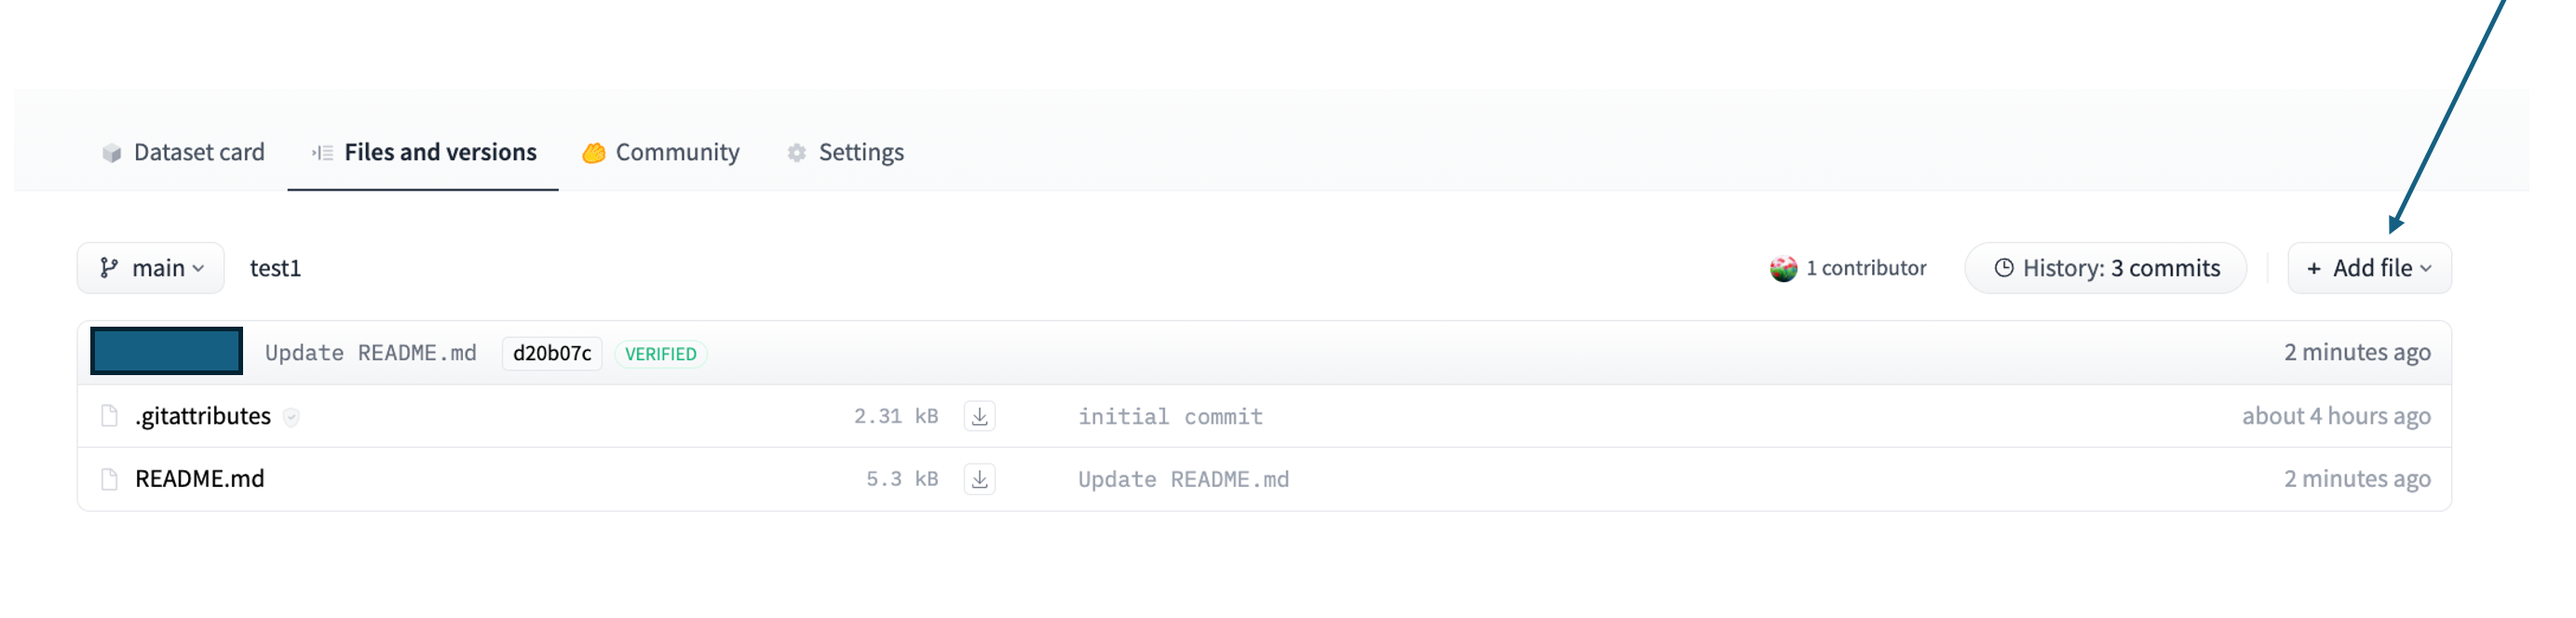
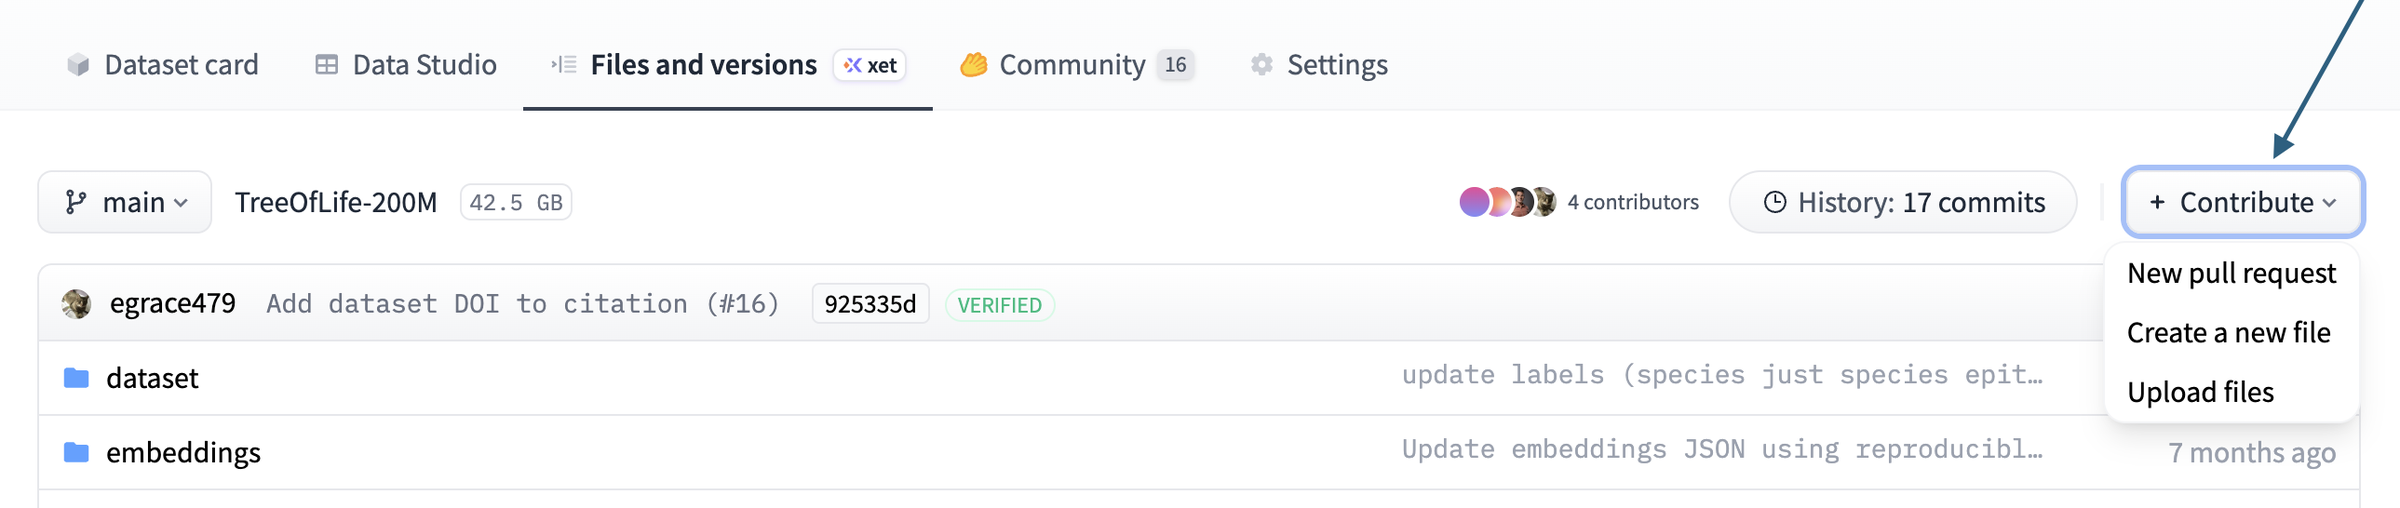
HF upload guide update
Pull from Collab Guide [PR 65](https://github.com/Imageomics/Collaborative-distributed-science-guide/pull/65)

* Initial re-organization of page, includes integrity checks and more links to docs
WIP refining

* Add in links, fix typos

* Additional notes in sections, refs out

* Add updated screenshot with arrow
match UI change to 'contribute'

* Remove extra outdated content, update URLs for new versions, run linting

* Clarify UI upload cases

* Clarify CLI upload use case

* Add pointer for considerations with large folder uploads

---------

diff --git a/docs/wiki-guide/The-Hugging-Face-Dataset-Upload-Guide.md b/docs/wiki-guide/The-Hugging-Face-Dataset-Upload-Guide.md
@@ -1,20 +1,49 @@
 # Hugging Face Dataset Guide
 
-## Create a New Dataset Repository
+[Hugging Face](https://hf.co/) offers numerous methods for interacting with and creating datasets. This page provides a basic overview with some recommendations specifically targeting image dataset uploads, though the principles are transferrable to other data types. We list these options&mdash;in order of increasing complexity&mdash;with some guidance, recommendations, and links out to the appropriate parts of the Hugging Face docs for the most up-to-date information available.
 
-When creating a new dataset repository, you can make the dataset **Public** (accessible to anyone on the internet) or **Private** (accessible only to members of the organization).
+1. [Web interface (UI)](#upload-a-dataset-with-the-web-interface): For smaller, simpler uploads.
+2. [Hugging Face Command Line Interface (CLI)](#upload-a-dataset-with-the-hugging-face-cli): For most use-cases, easy access from cluster.
+3. [Hugging Face API (python package)](#upload-a-dataset-with-hfapi): For when more fine-grained control than is achievable with the CLI is needed.
+4. [Git/Git LFS](#upload-a-dataset-with-git): Main use-case is when multiple PRs lead to merge conflicts&mdash;Hugging Face provides no other means for resolution.
 
-![New dataset repository interface](images/HF-dataset-upload/346972860-ed0feb0e-529b-4021-b44f-41ac96680bc3.png){ loading=lazy, width=800 }
-/// caption
-///
+!!! info
+    Some sections of the Hugging Face docs, such as for the `huggingface_hub`, have only version specific links for stable versions. In this case, if the link directs to an older version, there will be a banner to alert you to a newer version available, so keep an eye out for that updated version banner.
+
+Most of the content below is covered in various parts of [Hugging Face's Upload Guide](https://huggingface.co/docs/huggingface_hub/en/guides/upload); this page is provided as a summary reference mainly to determine which method might be best and link to the appropriate docs. Additionally, we include an [integrity check](#integrity-check) to help you ensure that your repo contains all the desired files after uploading through any of these methods.
+
+[HF tips and tricks for large uploads](https://huggingface.co/docs/huggingface_hub/en/guides/upload#tips-and-tricks-for-large-uploads).
+
+## Note on Authentication
+
+All of these methods require authentication to edit datasets, ranging from passwords, to tokens, to SSH authentication, and all support editing **Public** (accessible to anyone on the internet) or **Private** (accessible only to members of the organization) repos. Two key notes on authentication:
+
+1. Private repositories are only visible if you are authenticated.
+2. If using tokens for access, be sure to create a [fine-grained token](https://huggingface.co/docs/hub/en/security-tokens#what-are-user-access-tokens), specifically for your needs.
 
 ## Upload a Dataset with the Web Interface
 
-In the Files and versions tab of the Dataset card, you can choose to add file in the hugging web interface.
+In the Files and Versions tab of the repository, you can select "Contribute" to add or create files or start a pull request directly from the web interface.
 
 ![Dataset repository Add file button](images/HF-dataset-upload/346190430-9e6cef9b-18ef-4d4a-84c5-1a3f75ac9336.png){ loading=lazy }
 
+This method is fine for smaller files (<100MB), or data uploads from distributed sources, that have a relatively flat structure with few directories, and/or have few files. If you are uploading existing files, navigate to the target folder first.
+
+## Upload a Dataset with the Hugging Face CLI
+
+Hugging Face provides a comprehensive Command Line Interface (CLI) and corresponding [docs](https://huggingface.co/docs/huggingface_hub/en/guides/cli). Note that this is installed with the `huggingface_hub` python package, but can also be installed directly, then called with `hf <command>`.
+
+The Hugging Face CLI is the ideal method for uploads that are large in volume, have more than a few files, and/or a folder structure with many or nested directories. It works directly from HPC clusters, such as OSC. Under the hood, [`hf upload`](https://huggingface.co/docs/huggingface_hub/en/guides/cli#hf-upload) uses the same upload functions described below, under [Upload a Dataset with HfApi](#upload-a-dataset-with-hfapi). Review [Hugging Face's guidance on large folder uploads](https://huggingface.co/docs/huggingface_hub/v1.10.1/guides/upload#upload-a-large-folder) before selecting a method for uploading large folders to a non-empty repository.
+
+When uploading to a dataset, note that the repo type must be specified (`--repo-type=dataset`); this is also the case for spaces, since Hugging Face treats models as the default.
+
+There are specific [`hf datasets`](https://huggingface.co/docs/huggingface_hub/en/guides/cli#hf-datasets) and [`hf repo`](https://huggingface.co/docs/huggingface_hub/en/guides/cli#hf-repo) commands for more general queries and repo initialization.
+
 ## Upload a Dataset with HfApi
+
+When more complex dataset structures are involved or more fine-grained control (not exposed on CLI) over how a repo will be organized on Hugging Face is neeeded, the Hugging Face API may be the answer. For instance, if a glob pattern cannot sufficiently clarify necessary exclusions of subfolders or files, [`HfApi`](https://huggingface.co/docs/huggingface_hub/package_reference/hf_api) is likely the preferred choice. This is a class, accessible through the [`huggingface_hub` package](https://huggingface.co/docs/huggingface_hub/index), that acts as a Python wrapper for the API.
+
+Please see the Hugging Face API docs for the most up-to-date guidance. For quick reference, to [upload by file](https://huggingface.co/docs/huggingface_hub/v1.10.1/package_reference/hf_api#huggingface_hub.HfApi.upload_file) or [upload by folder (structure maintained)](https://huggingface.co/docs/huggingface_hub/v1.10.1/package_reference/hf_api#huggingface_hub.HfApi.upload_folder).
 
 ``` py linenums="1"
 from huggingface_hub import login
@@ -24,70 +53,70 @@ login()
 
 from huggingface_hub import HfApi
 api = HfApi()
+repo_id = "<ABC-Center/dataset name>"
 
-api.upload_file (
+# Upload by file
+api.upload_file(
     path_or_fileobj = <the local file path that you would like to upload>,
     path_in_repo = <the path in the repo>,
-    repo_id = <ABC-Center/dataset name>,
+    repo_id = repo_id,
     repo_type = 'dataset'
+)
+
+# Upload by folder (maintain structure)
+api.upload_folder(
+    folder_path="/path/to/local/folder", # should end with folder containing data
+    path_in_repo="path/to/folder/", # path desired for folder in repo
+    repo_id= repo_id,
+    repo_type="dataset",
+    token_id = "paste-token-here" # if you're not logged in, HF does **not** recommend this method
 )
 ```
 
+Repos can also be created through the Hugging Face API using the [create_repo method](https://huggingface.co/docs/huggingface_hub/v1.10.1/en/package_reference/hf_api#huggingface_hub.HfApi.create_repo) with the following parameters:
+
+```py linenums="1"
+repo_id = "<HF-Org-name>/<dataset-name>"
+repo_type = "dataset"
+private = True  # if you want the repo private
+```
+
+See also instructions using the [datasets package](https://huggingface.co/docs/datasets/create_dataset).
+
 ## Upload a Dataset with Git
 
-### If the Dataset is Less Than 5GB
+Using Git to interact with Hugging Face requires installation of [Git LFS](https://git-lfs.com/), the [Hugging Face CLI](https://huggingface.co/docs/huggingface_hub/en/guides/cli), and then enabling large file upload for the repo
 
-Navigate to the folder for the repository:
+Hugging Face provides details on [git vs http](https://huggingface.co/docs/huggingface_hub/en/concepts/git_vs_http), really using Git vs HfApi
 
-```
-# Clone the repository
-git clone https://huggingface.co/datasets/username/repo-name
+Hugging Face has moved away from Git LFS, instead utilizing [Xet](https://huggingface.co/docs/hub/en/xet/index) for data storage and version control; this is [backwards compatible with LFS](https://huggingface.co/docs/hub/en/xet/legacy-git-lfs).
 
-# Add, commit, and push the files
-git add
-git commit -m 'comments'
-git push
+## Other Repo Considerations
 
-```
+One time where `git` may be needed, is if one encounters a [merge conflict](https://discuss.huggingface.co/t/how-to-fix-merge-conflicts-in-prs/160090). Unlike GitHub, Hugging Face ***does not*** have conflict resolution UI tools, nor does it provide merge conflict resolution capabilities in the CLI or HfApi. The only means for resolving merge conflicts is to manually update the pull request in a [local clone](The-Hugging-Face-Workflow.md#hugging-face-pull-requests-with-local-edits), pulling `main` into your PR branch and resolving the conflicts.
 
-### If the Dataset is Larger Than 5GB
+## Integrity Check
 
-#### Install Git LFS
+Sometimes uploads fail partway through, leaving one or more files un-uploaded. Unfortunately, it seems that there is not an easy solution to be alerted to these issues when not uploading through the UI. Additionally, using a glob pattern to set upload without a dry-run[^1] (in `git` terms, this would be running `git status` after adding files) can also lead to accidental exclusion. To catch these issues, we recommend the following integrity check after uploading a dataset[^1].
 
-Follow instructions at <https://git-lfs.com/>
+[^1]: The Hugging Face CLI does have a [dry-run mode](https://huggingface.co/docs/huggingface_hub/en/guides/cli#dry-run-mode) for *downloading* datasets. Additionally, if working with Git LFS, there is a [preupload LFS](https://huggingface.co/docs/huggingface_hub/en/guides/upload#preupload-lfs-files-before-commit) option to ensure all files are properly preset and organized before committing. There are additional considerations for sharding noted in the Hugging Face docs.
 
-#### Install the Hugging Face CLI
+```python
+import pandas as pd
+from huggingface_hub import HfApi
 
-```
-brew install huggingface-cli
-pip install -U "huggingface_hub[cli]"
-```
+api = HfApi()
+repo_id = "<org-name>/<repo-name>"
+repo_type = "dataset"
 
-#### Enable the repository to upload large files
+file_list = api.list_repo_files(repo_id=repo_id, repo_type=repo_type)
+file_df = pd.Dataframe(columns = {"filepath": file_list})
+metadata = pd.read_csv("path/to/metadata/file")
 
-```
-huggingface-cli lfs-enable-largefiles <your local dataset>
-```
-
-#### Initialize Git LFS
-
-```
-git lfs install
+# assuming you use the same filepath in your system as in the repo
+df = pd.merge(file_df, metadata, how = "inner", on = "filepath")
+df.shape[0]  # this should match the number of expected images
 ```
 
-#### Track large files (e.g., .csv files)
-
-```
-# Adds a line to .gitattributes, which Git uses to determine files managed by LFS
-git lfs track "*.csv"  
-git add .gitattributes
-git commit -m "Track large files with Git LFS"
-```
-
-#### Add, commit, and push the files
-
-```
-git add 
-git commit -m 'comments'
-git push
-```
+!!! tip "Pro tip"
+    If you don't have a metadata file for your images, use the [sum-buddy package](Helpful-Tools-for-your-Workflow.md#sum-buddy) to generate one in your local file system. This can also be used as a metadata file for the dataset viewer as needed (see [image datasets docs](https://huggingface.co/docs/hub/en/datasets-image) for more information on setting this up). Similar options are available for [audio](https://huggingface.co/docs/hub/en/datasets-audio) and [video](https://huggingface.co/docs/hub/en/datasets-video) datasets.
